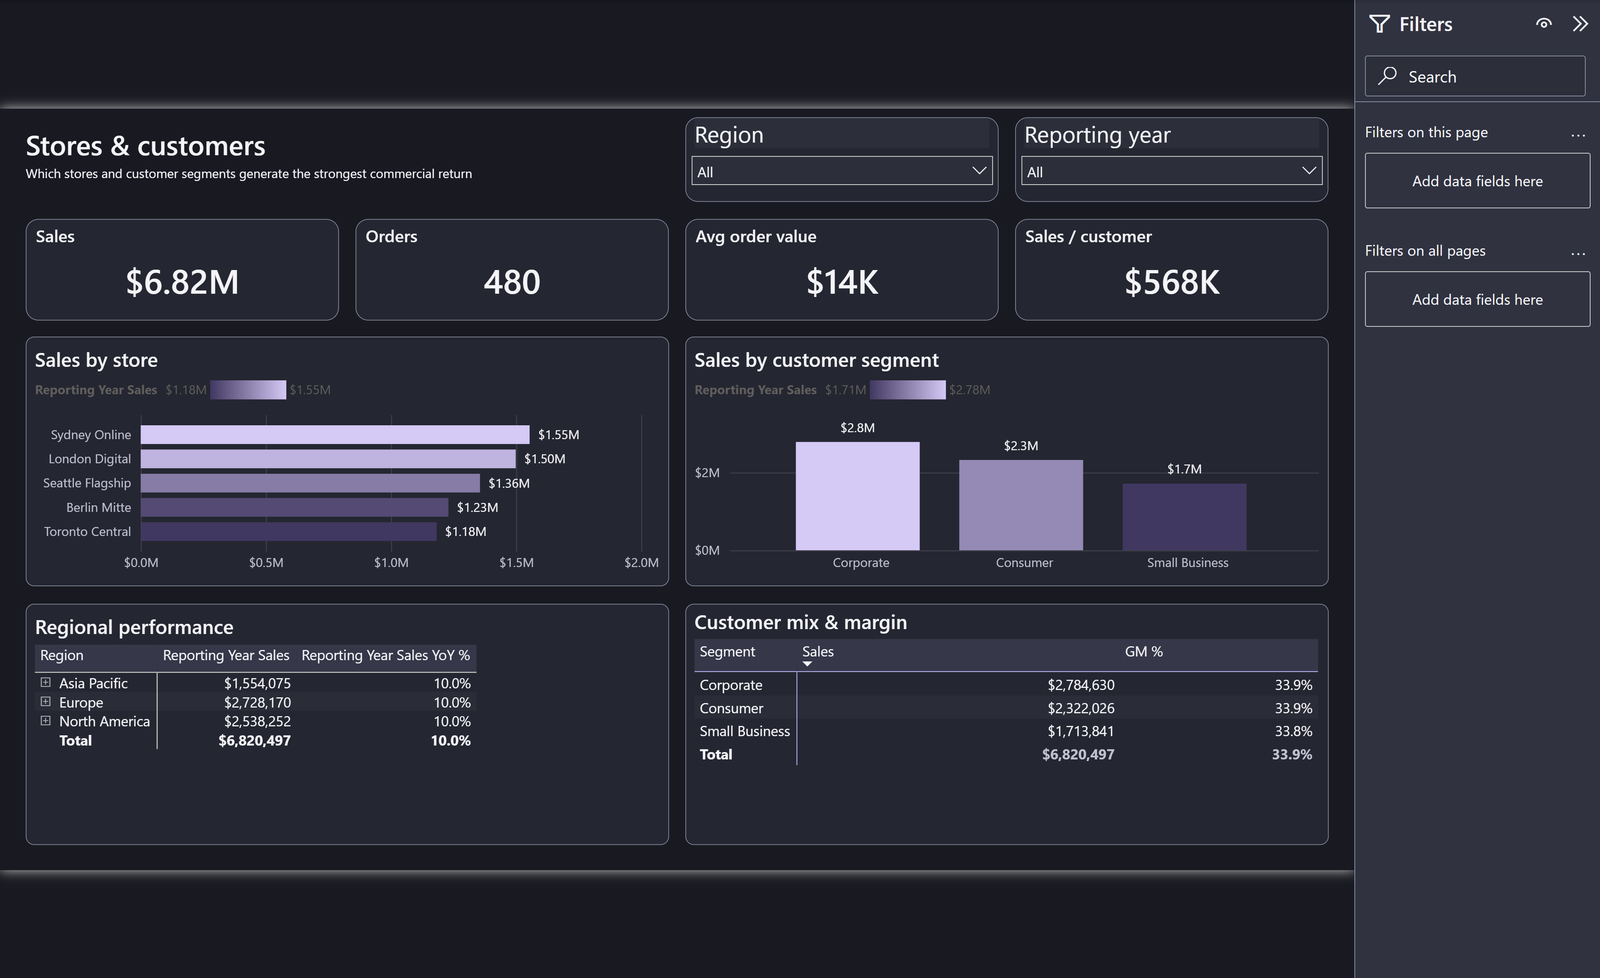
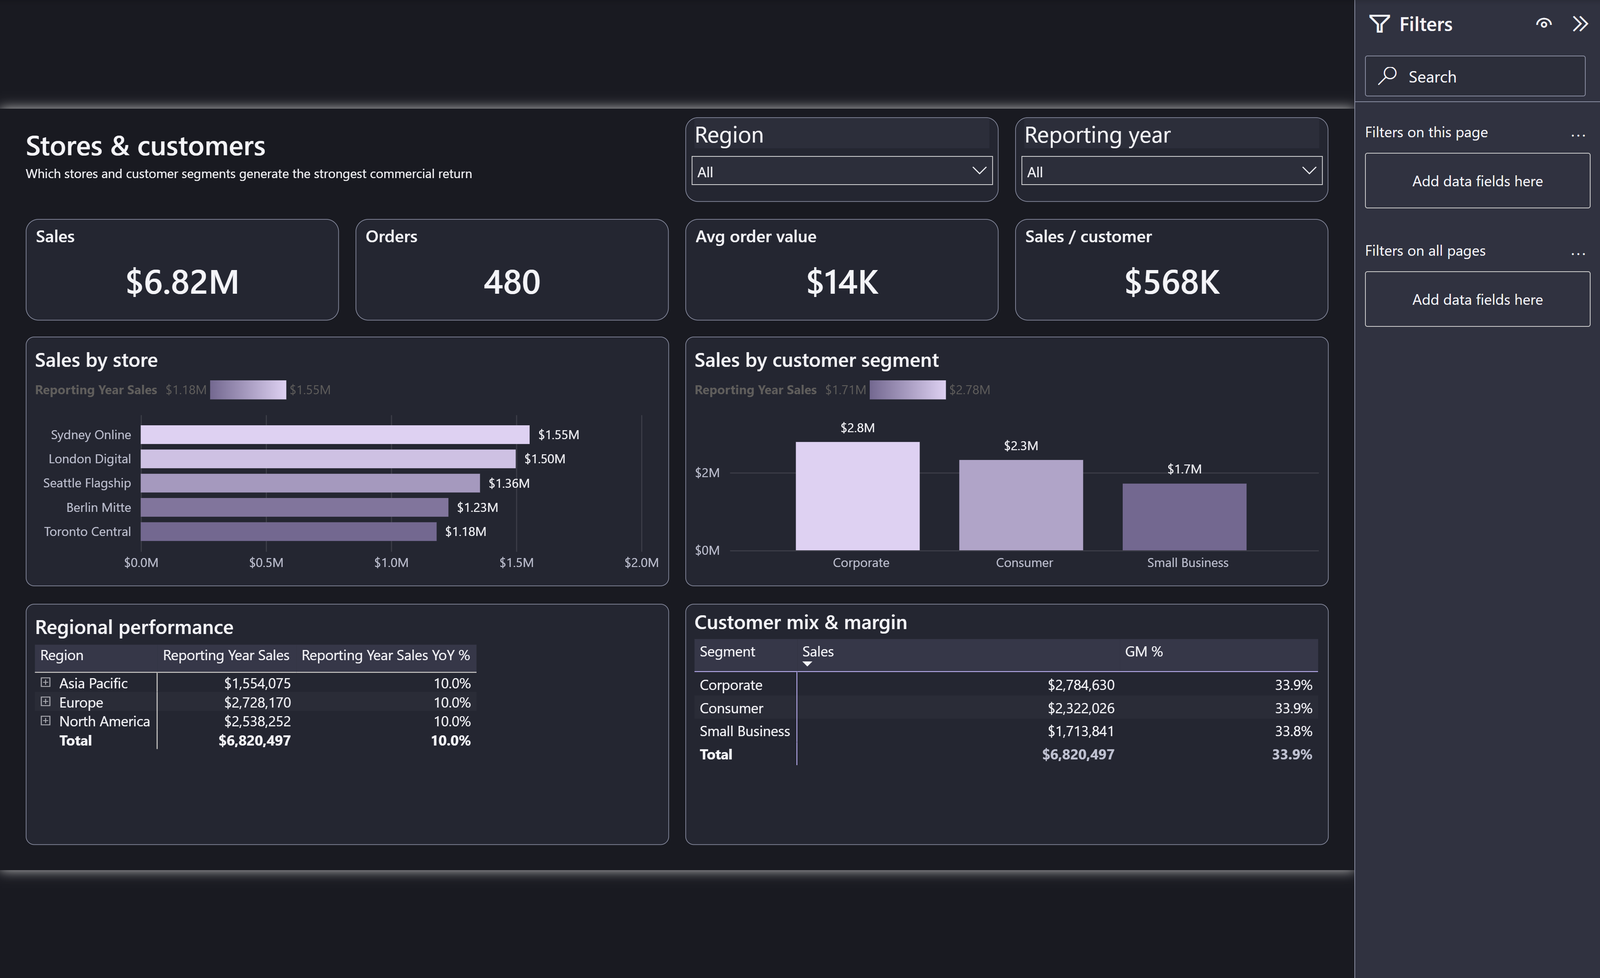
docs(powerbi): publish researched dark chart color native captures (#80)

diff --git a/docs/THEME_GALLERY.md b/docs/THEME_GALLERY.md
@@ -7,12 +7,12 @@ No UI mockups, customer data or AI-generated dashboards are used. The 1600px
 public previews are resized from original 3915px Desktop captures retained
 outside Git; both public and original SHA-256 hashes are in manifests.
 
-*Chart palette redesign notice:* the gallery thumbnails originally
-captured at revision `92e40b1` display the **previous** series palettes;
-they must not be used as design evidence for the new curated scheme.
-New candidates and refreshed native captures are required before
-publishing the redesigned chart colors. Source choices and contrast
-checks: [Chart Color Design](CHART_COLOR_DESIGN.md).
+The four dark-theme previews have now been recaptured from the researched
+color scheme at candidate revision `9f9fb98`, after Full synthetic
+model processing and official native Desktop screenshots. The light/white
+theme was intentionally unchanged and retains its original manifest.
+[Chart palette design rationale](CHART_COLOR_DESIGN.md) and independent
+G2 interaction/review limitations remain available.
 
 ## Compare the same report across five themes
 
@@ -133,9 +133,10 @@ measure, numeric thresholds, selectors and conditional structure.
 Waterfall increase/decrease/total and true business-rule conditional
 colors are intentionally protected from automatic recoloring.
 
-The public screenshot previews **were re-captured after the chart-color
-implementation** on exact candidate revision 92e40b1, so bars, maps and
-numeric gradients visibly follow their chosen semantic palette.
+The four dark-theme screenshots were newly captured at candidate source
+revision 9f9fb98 and show distinct theme-specific category palettes and
+value gradients. The white/light captures are unchanged at revision
+92e40b1; both sources are recorded in the individual image manifests.
 
 ## Filter-pane, slicer and dropdown behavior
 
@@ -154,10 +155,12 @@ colors or behavior.
 
 These are genuine synthetic-demo presentation previews, not raw G2 runtime
 evidence. Each page was captured via the official Power BI Desktop authoring
-interface after Microsoft Modeling MCP Full processing. Every palette is
-sourced from the identical five-page Contoso report and Git revision
-[92e40b1](https://github.com/analienx/visual-quality-system/commit/92e40b1097bf124c64a257a4db63f1d653e03f58),
-and passed [official Microsoft authoring validation](https://github.com/analienx/visual-quality-system/actions/runs/40038410291).
+interface after Microsoft Modeling MCP Full processing. Every palette originates in the same five-page synthetic Contoso report.
+The unchanged white/light captures trace to revision
+[92e40b1](https://github.com/analienx/visual-quality-system/commit/92e40b1097bf124c64a257a4db63f1d653e03f58).
+The four recolored dark themes trace to
+[9f9fb98](https://github.com/analienx/visual-quality-system/commit/9f9fb9820d88007a71181acae3a35743bb26ccb8),
+which [passed official Microsoft authoring on Linux and Windows](https://github.com/analienx/visual-quality-system/actions/runs/40077405016).
 
 - [Executive Blue Light public-preview and source-capture hash manifest](images/themes/light/manifest.json)
 - [Executive Blue Dark public-preview and source-capture hash manifest](images/themes/blue-dark/manifest.json)

diff --git a/README.md b/README.md
@@ -141,8 +141,8 @@ Read the [user guide](docs/USER_GUIDE.md), [CLI reference](docs/CLI.md), [accept
 
 [**Chart-color redesign:** researched independent categorical/ramp
 palettes are implemented for each dark colorway.](docs/CHART_COLOR_DESIGN.md)
-*The archived report thumbnails reflect the earlier chart palette
-until new native Desktop captures pass review.*
+*The four dark colorways show recaptured native Desktop evidence for
+the researched chart palettes; the white/light theme remains unchanged.*
 
 
 
